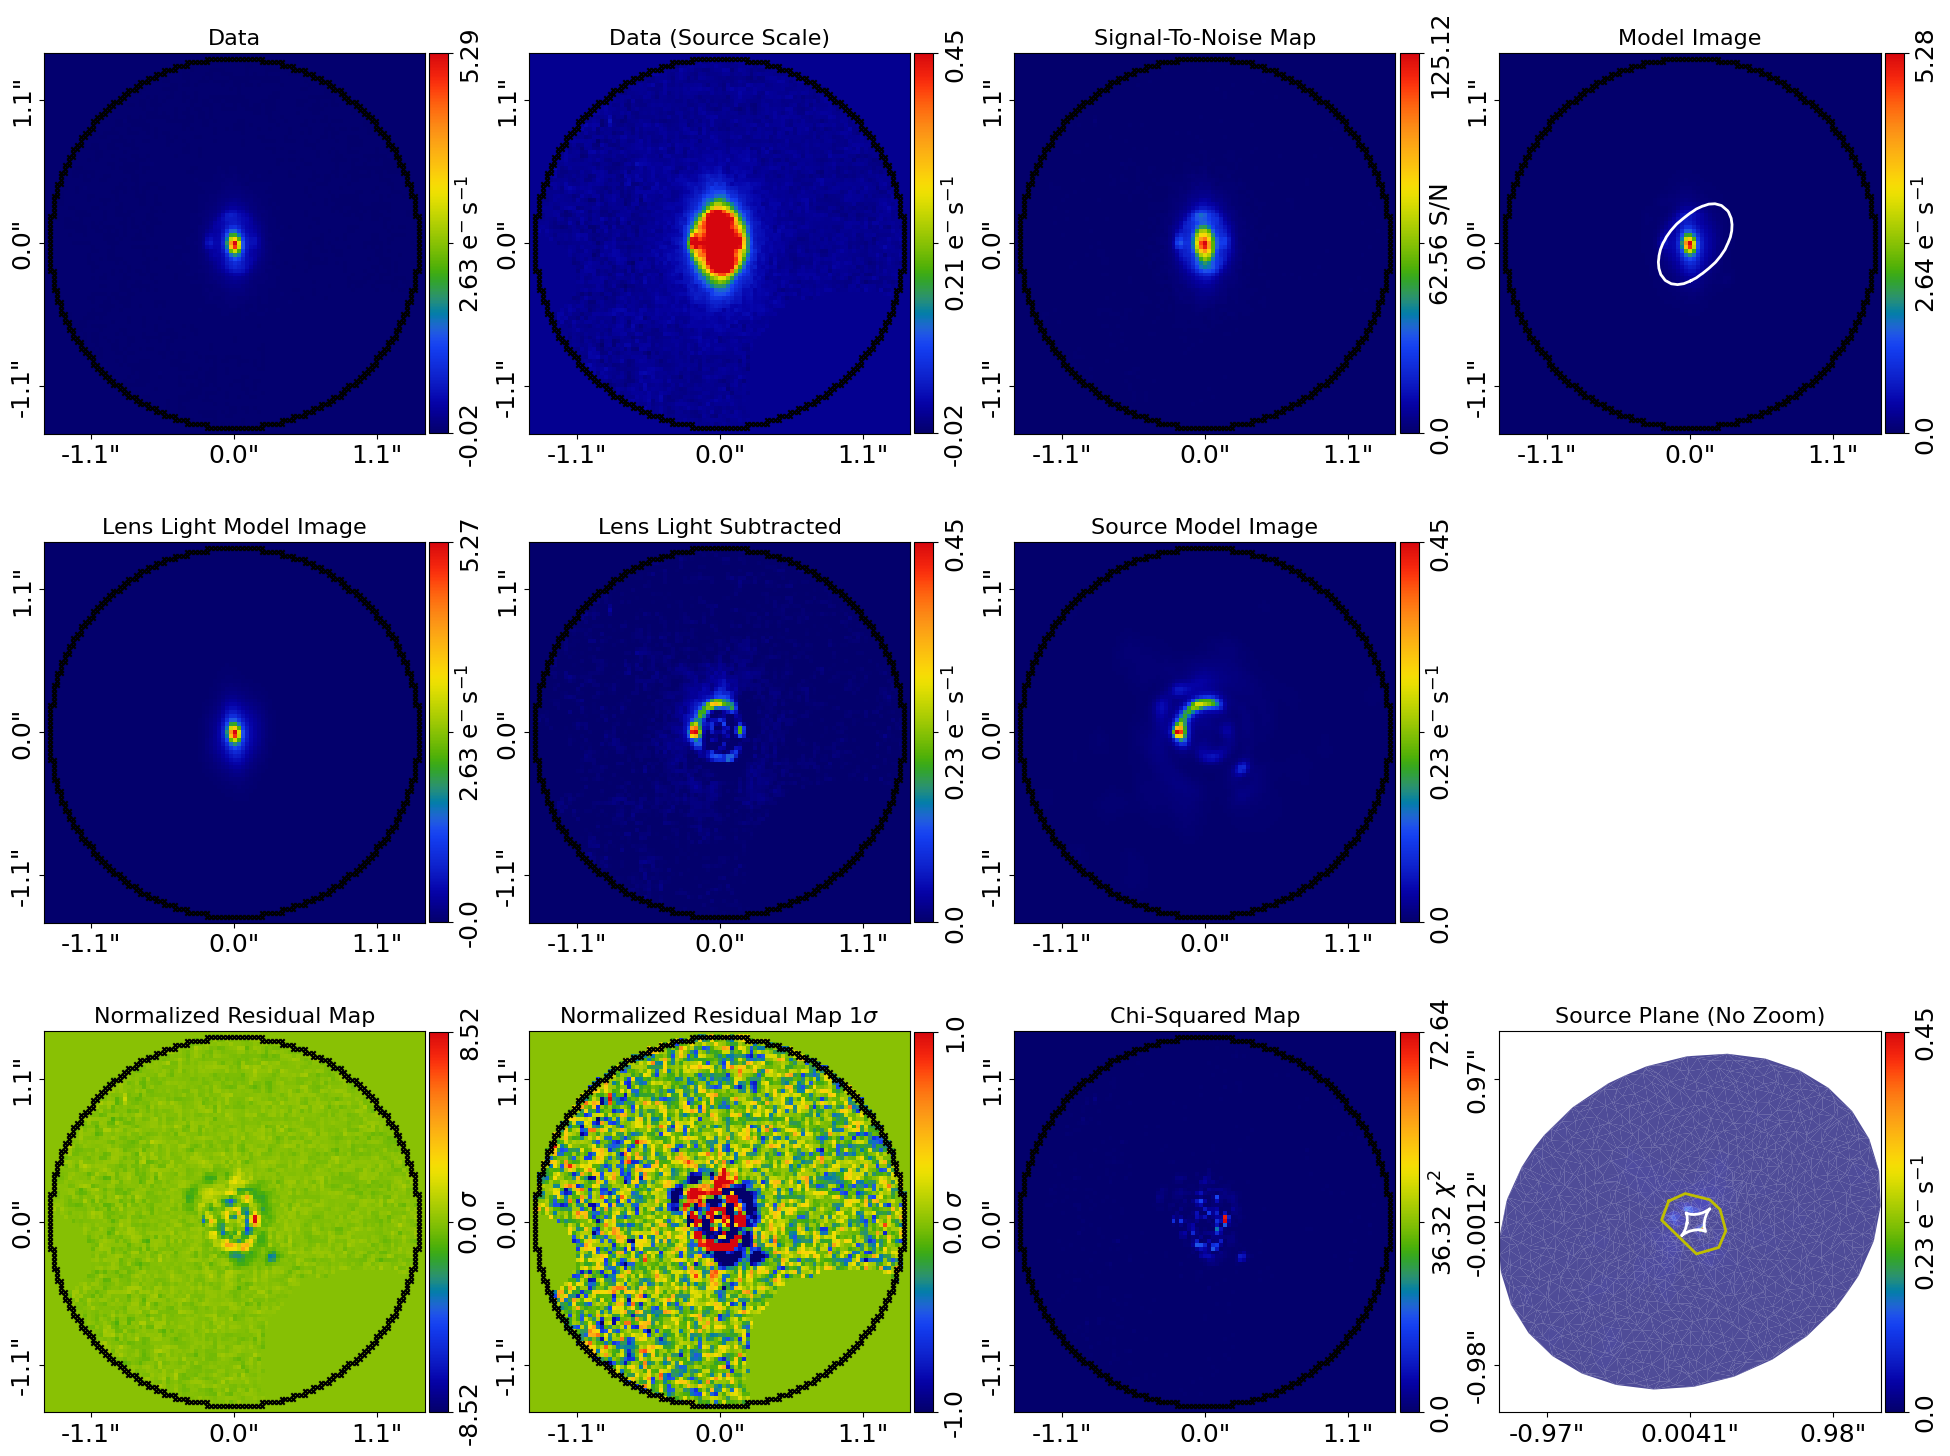
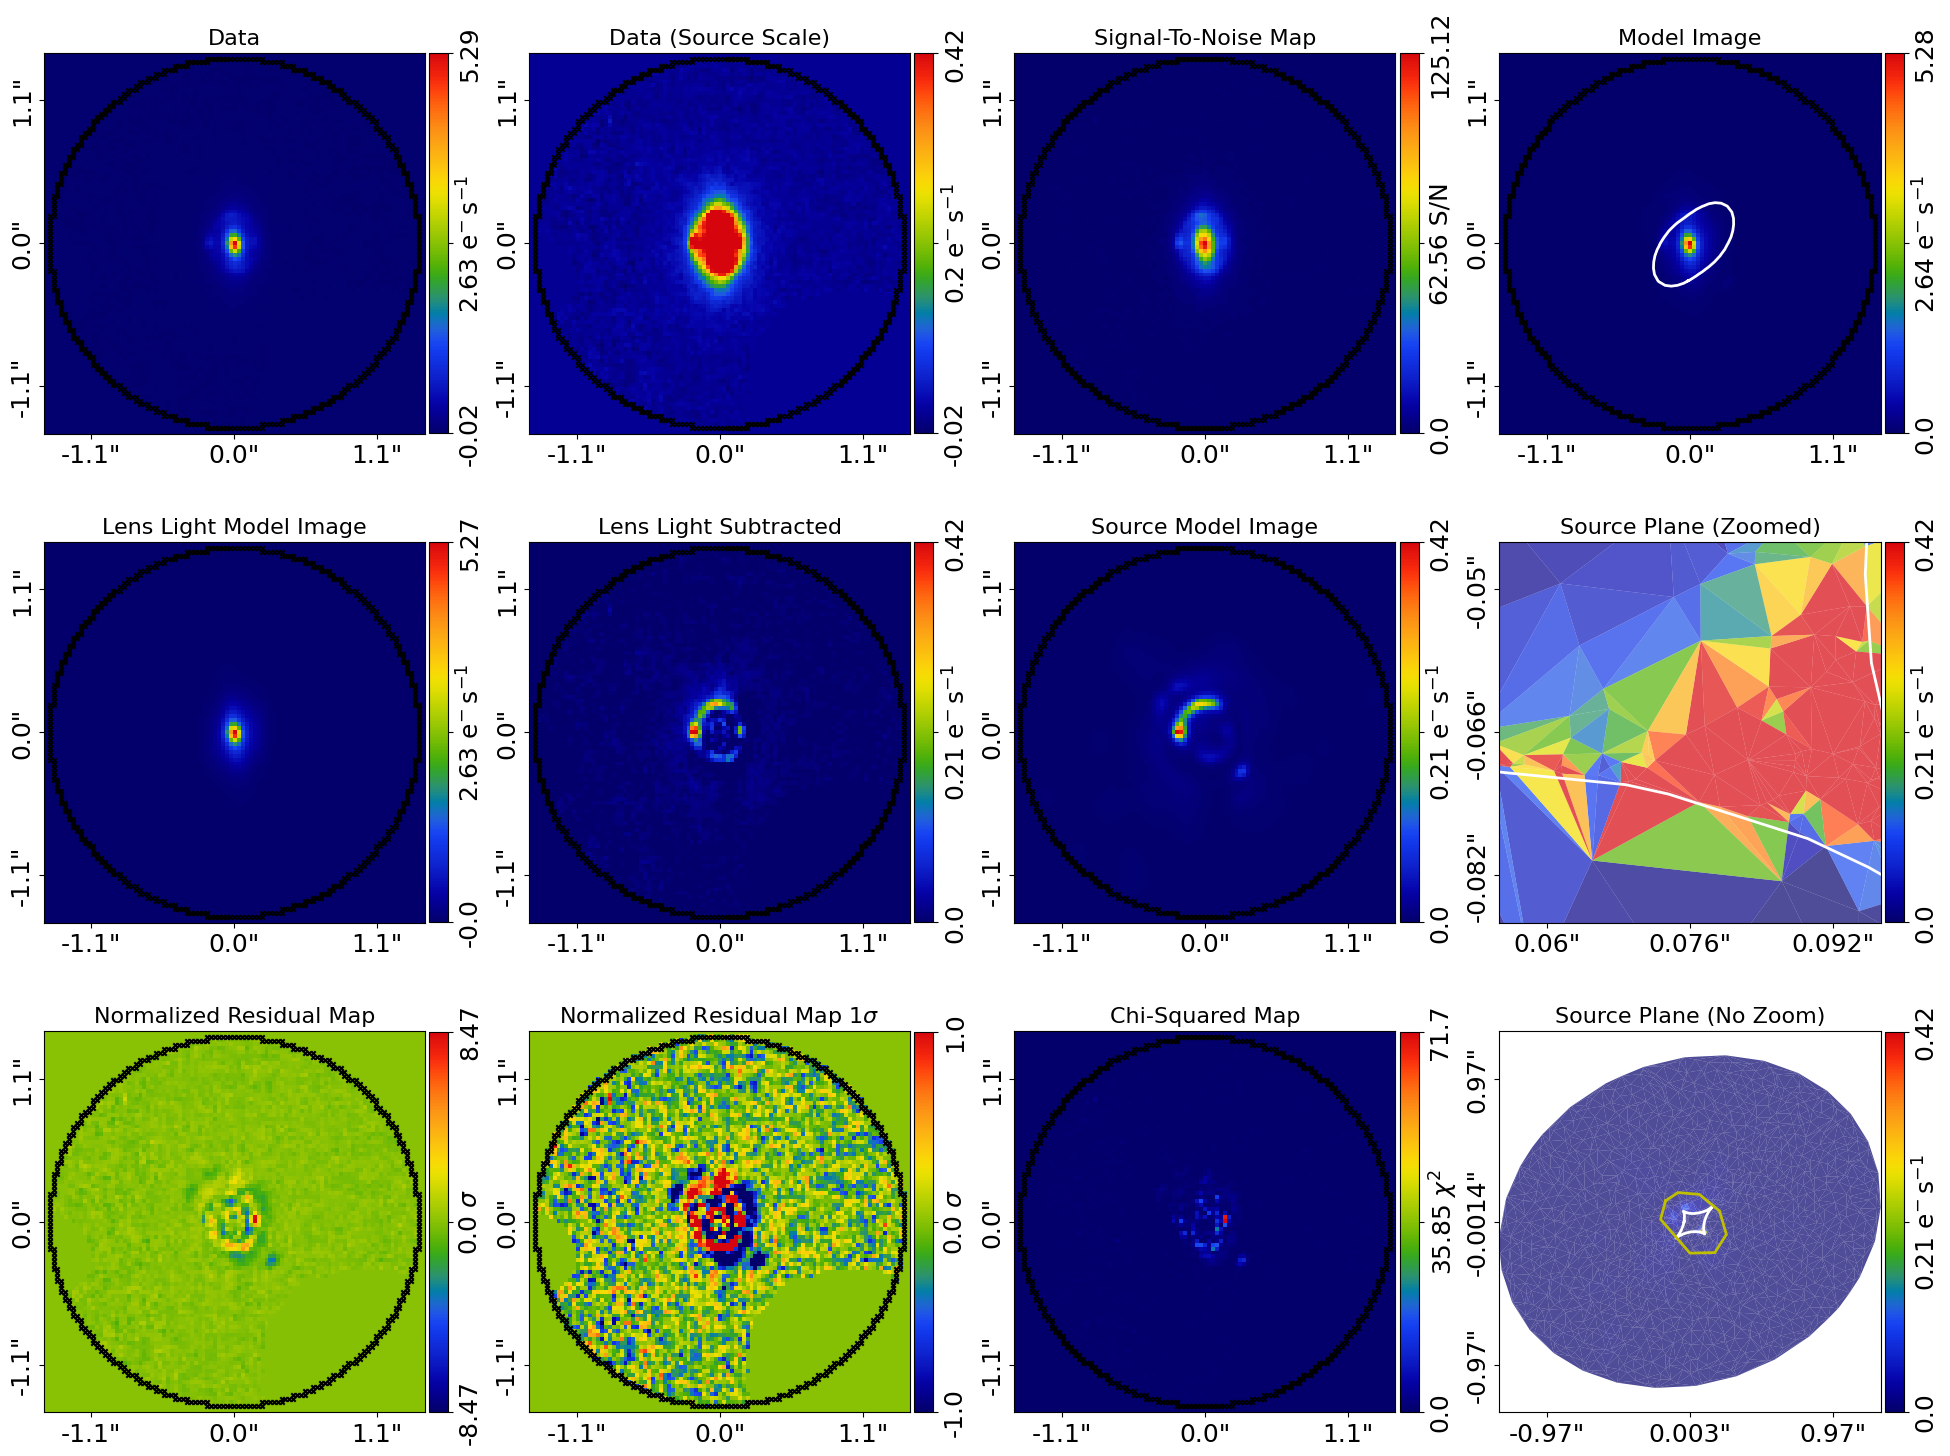
Minor typo fixed (galaxy_name_image_dict)

diff --git a/main_runner_J24_regularization.py b/main_runner_J24_regularization.py
@@ -274,7 +274,7 @@ image_plane_mesh_grid = al.image_mesh.append_with_circle_edge_points(
 )
 
 adapt_images = al.AdaptImages(
-    galaxy_image_name_dict=galaxy_image_name_dict,
+    galaxy_name_image_dict=galaxy_image_name_dict,
     galaxy_name_image_plane_mesh_grid_dict={
         "('galaxies', 'source')": image_plane_mesh_grid
     },
